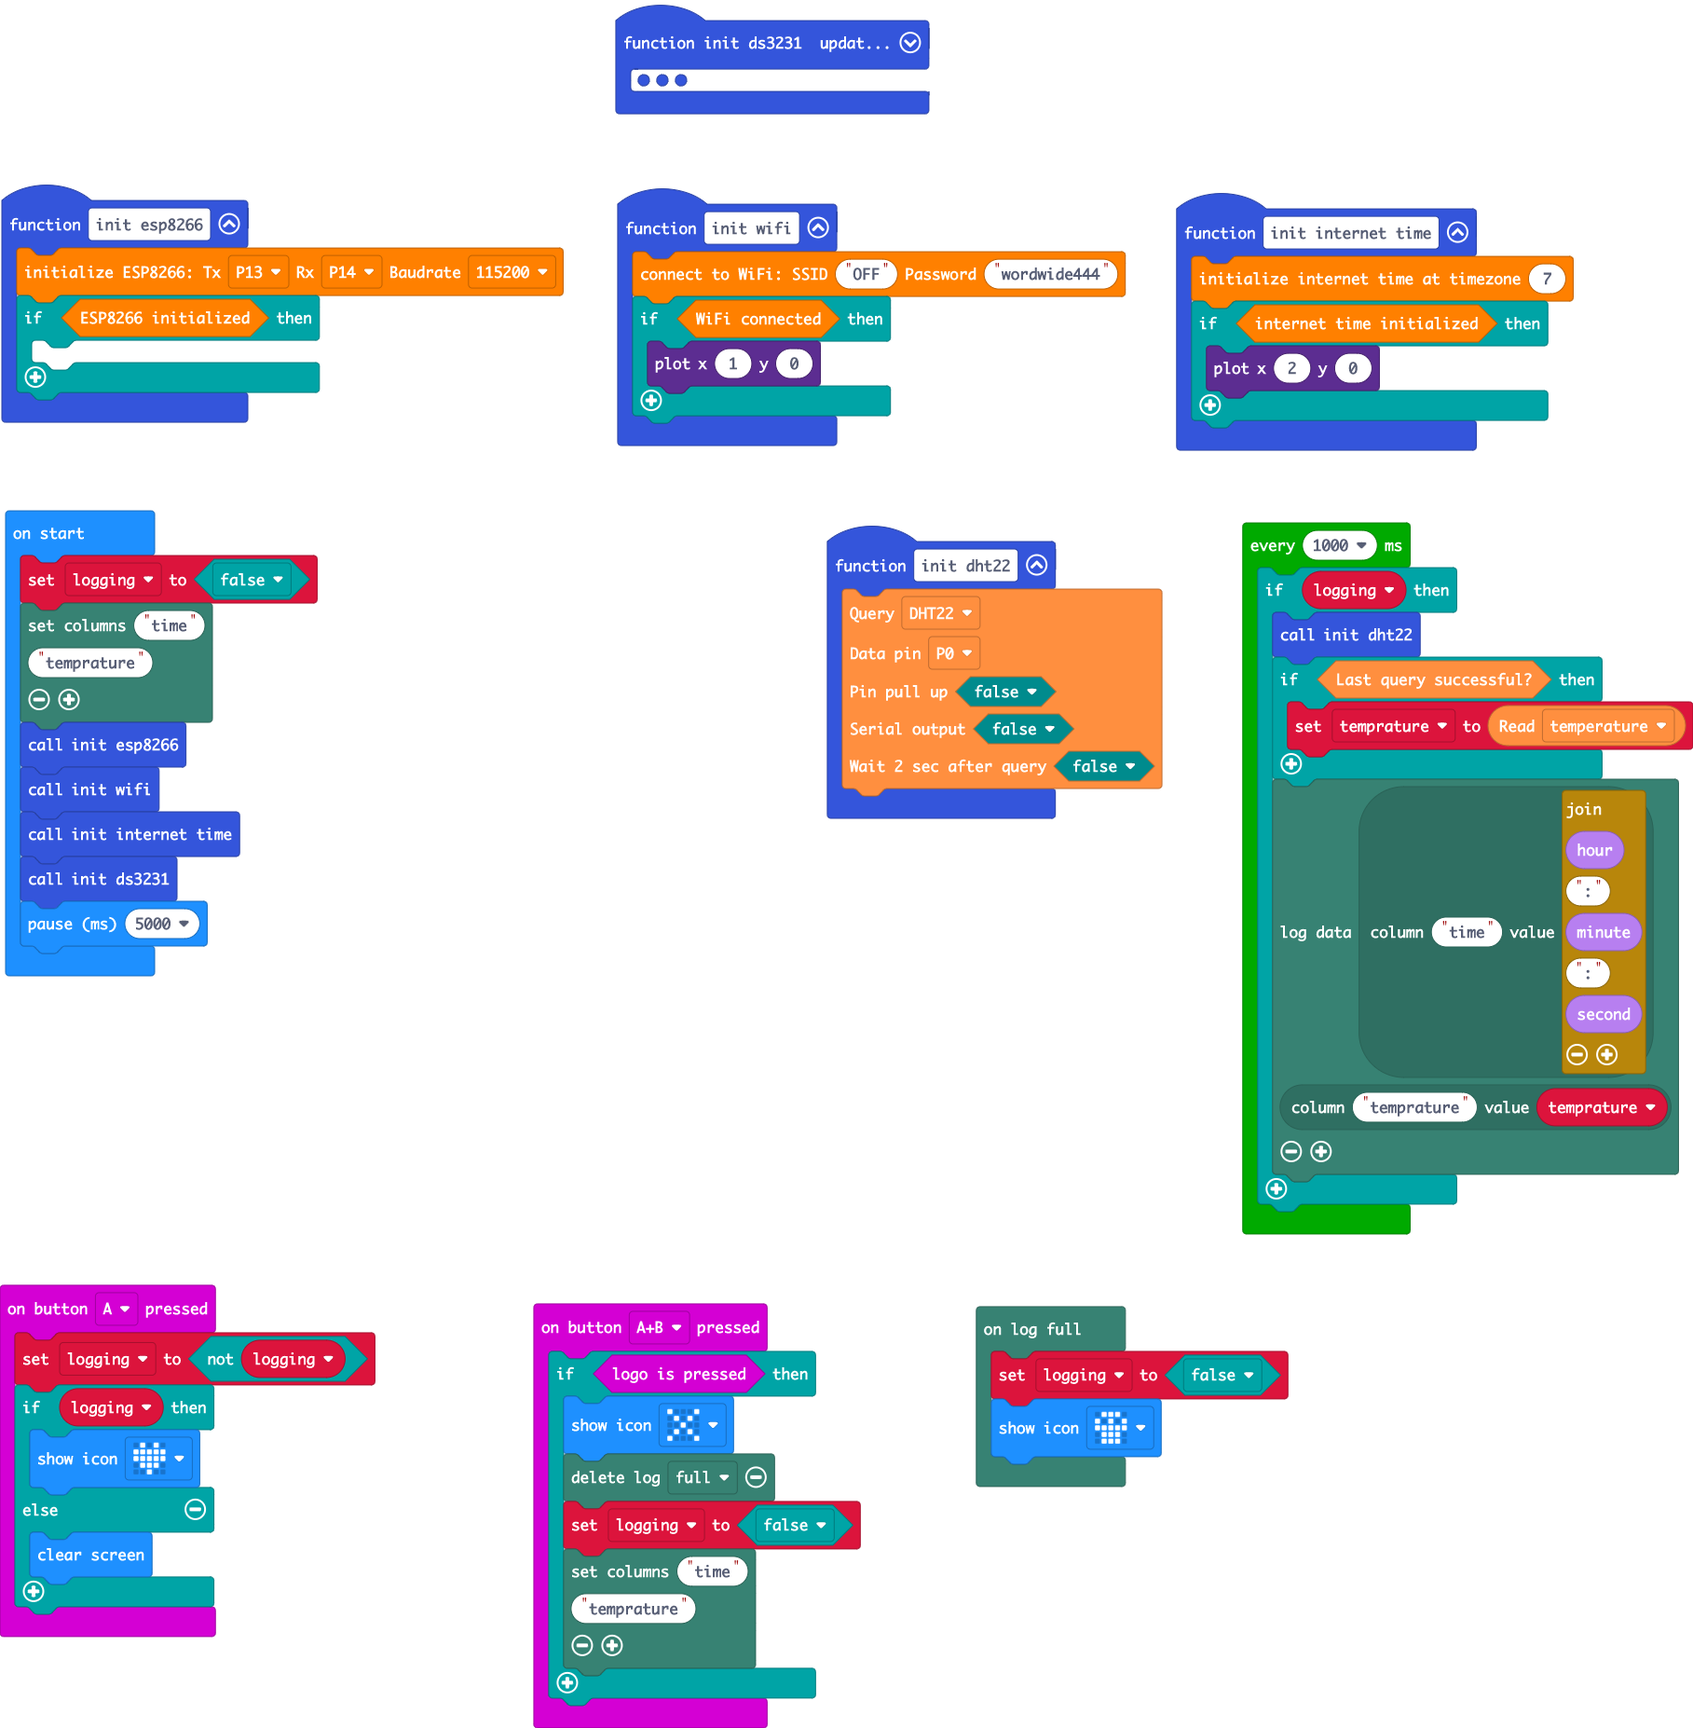
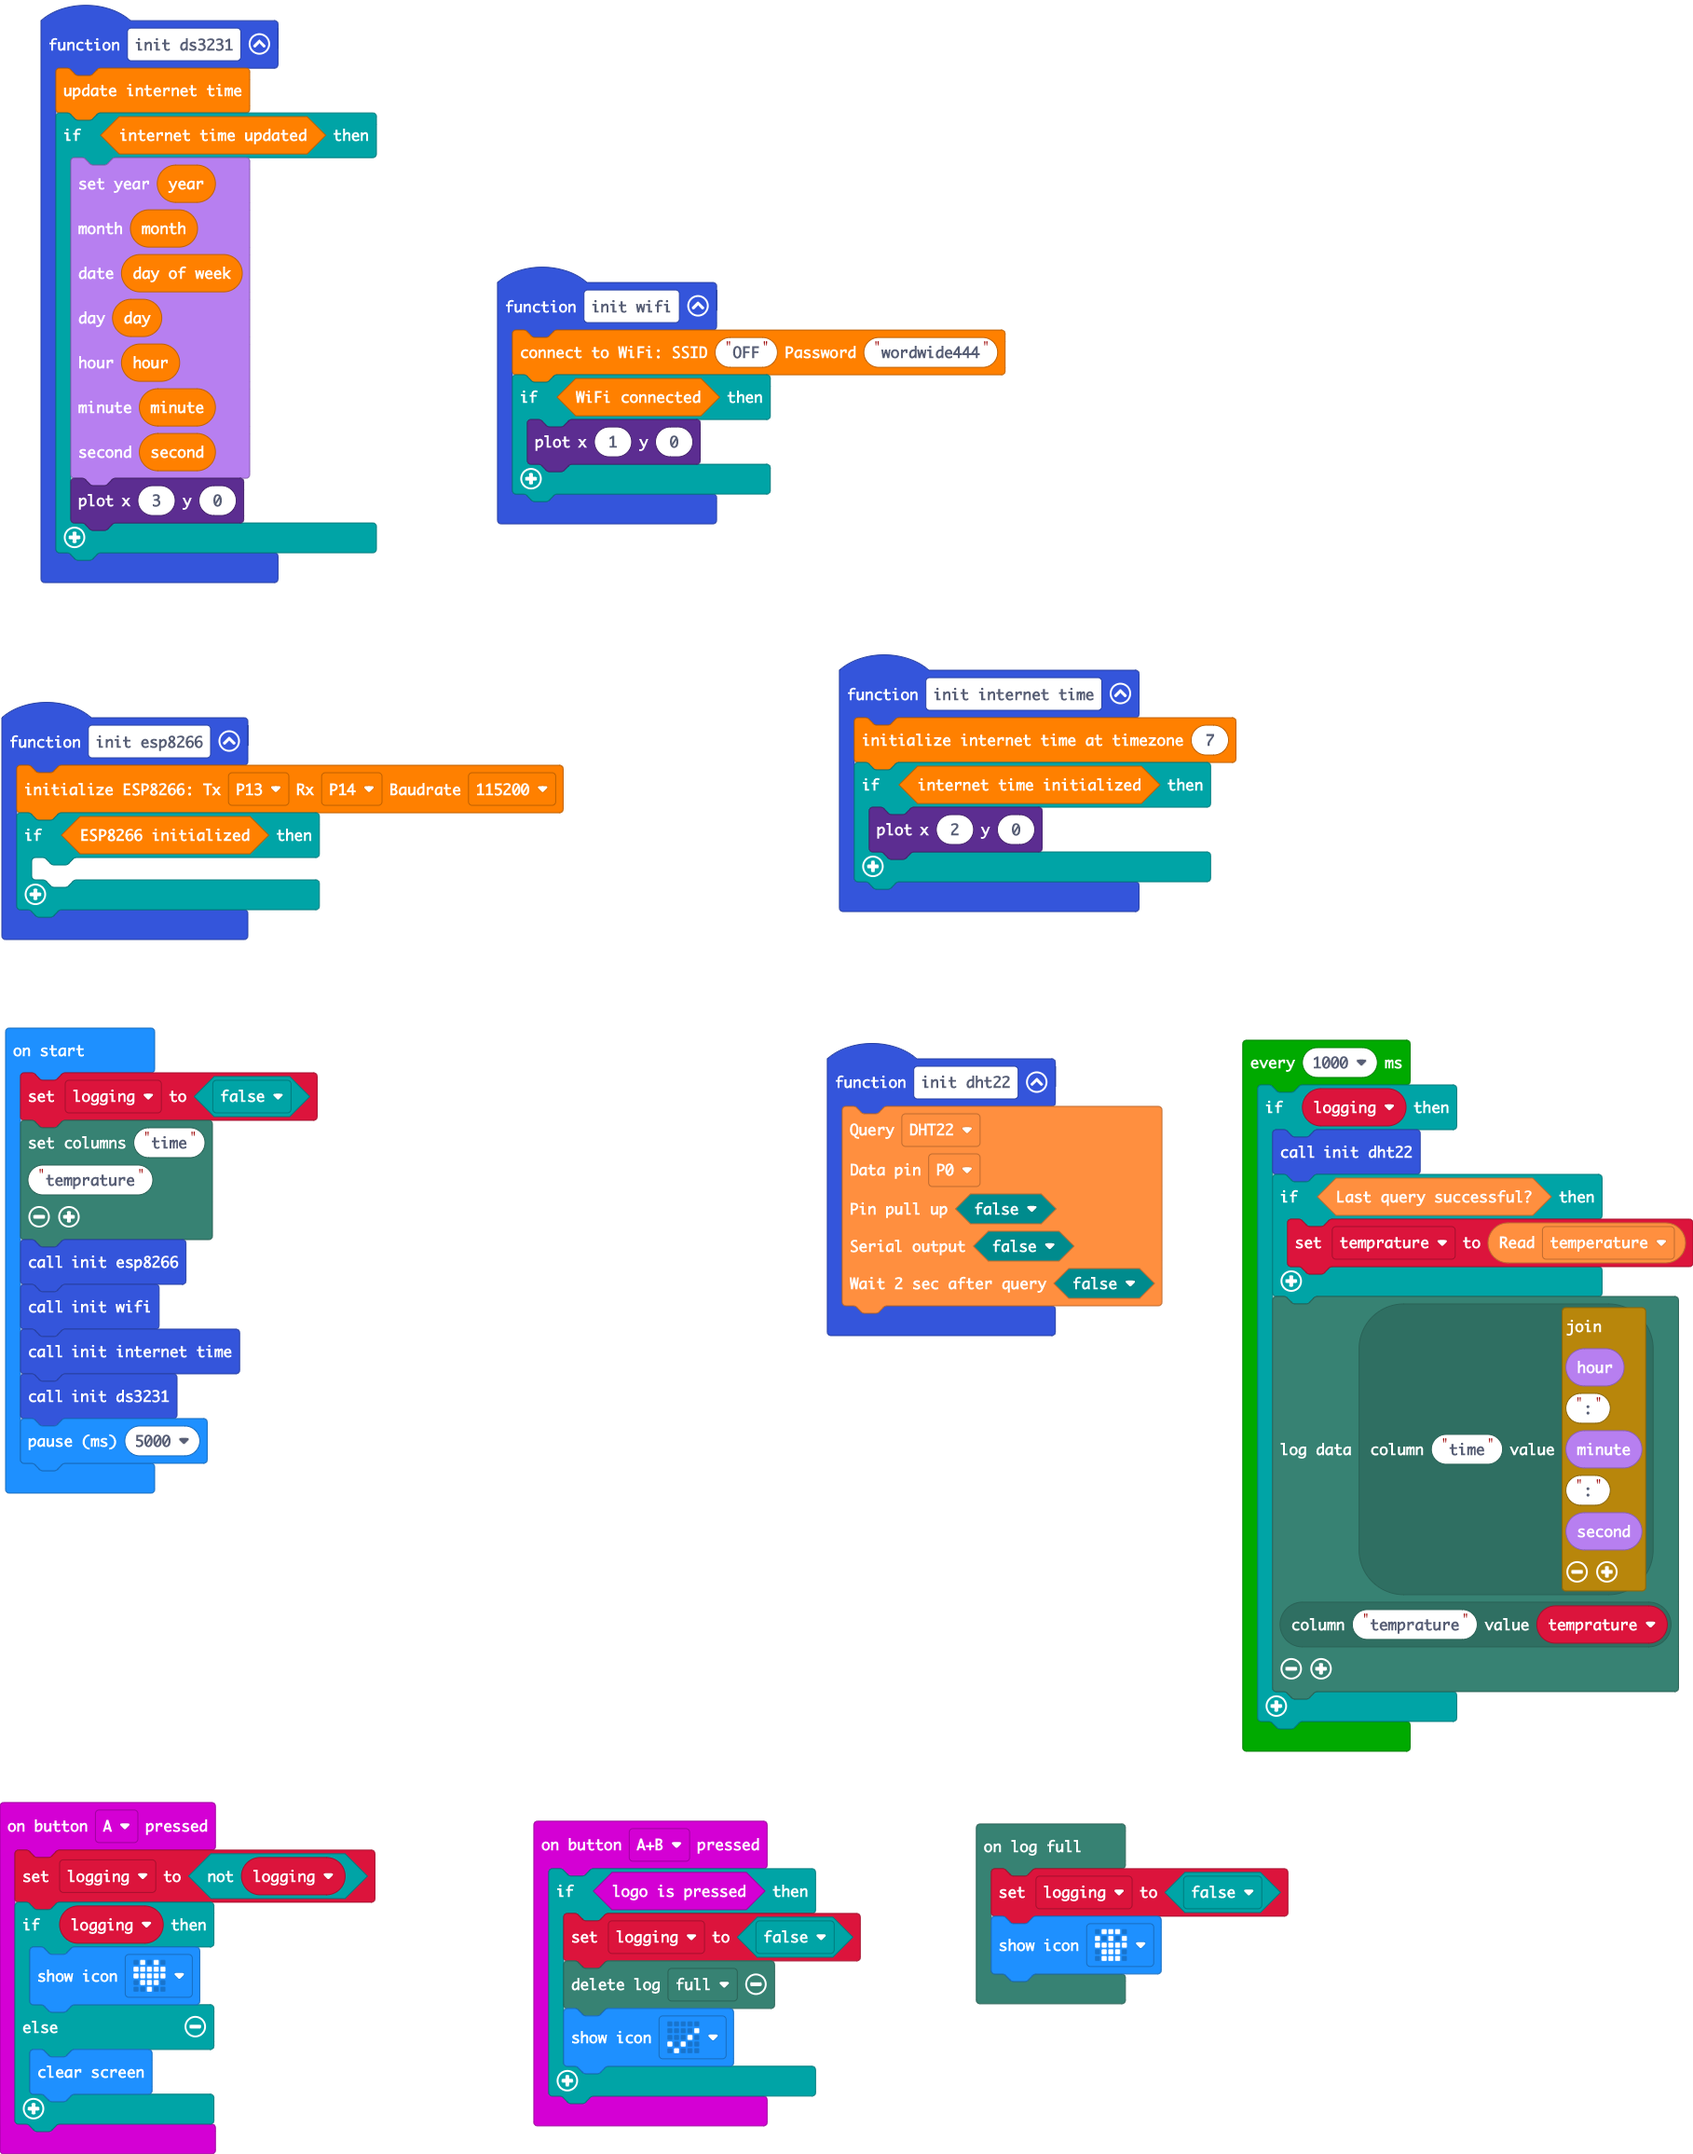
Update pxt.json, main.blocks, main.ts

diff --git a/main.ts b/main.ts
@@ -27,13 +27,9 @@ input.onButtonPressed(Button.A, function () {
 })
 input.onButtonPressed(Button.AB, function () {
     if (input.logoIsPressed()) {
-        basic.showIcon(IconNames.No)
-        datalogger.deleteLog(datalogger.DeleteType.Full)
         logging = false
-        datalogger.setColumnTitles(
-        "time",
-        "temprature"
-        )
+        datalogger.deleteLog(datalogger.DeleteType.Full)
+        basic.showIcon(IconNames.Yes)
     }
 })
 function init_ds3231 () {
